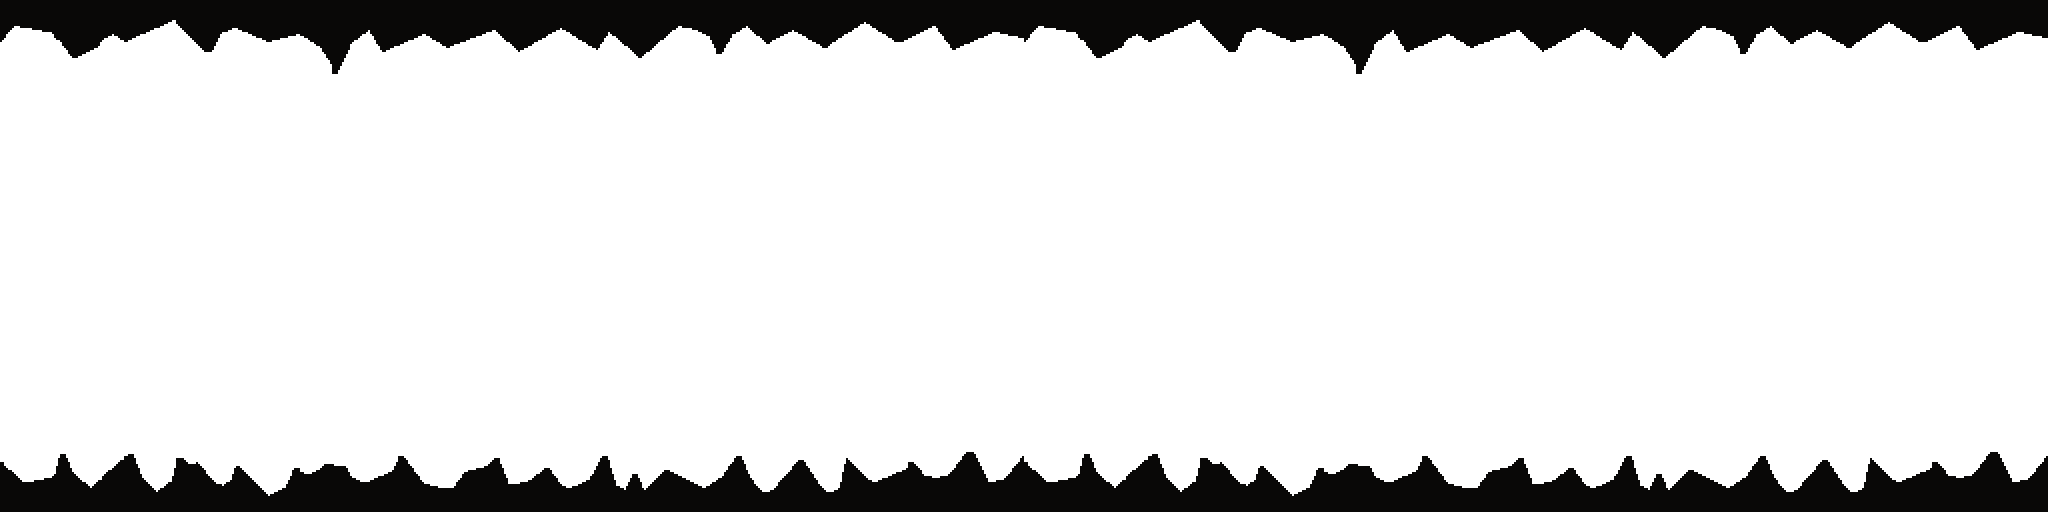
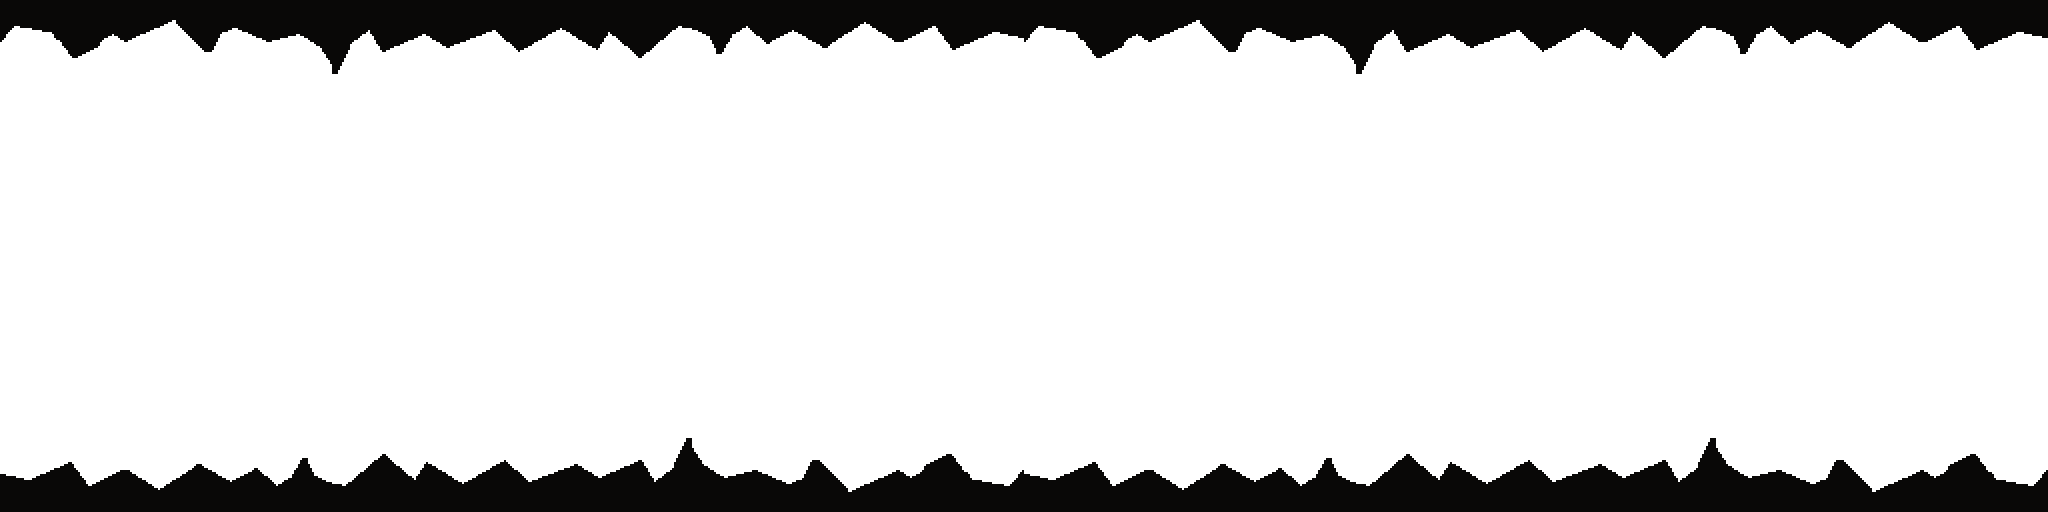
working death

Changed region(s): [[0.0, 0.875, 1.0, 0.9688]]

diff --git a/sprites.py b/sprites.py
@@ -31,6 +31,7 @@ class Ground(pygame.sprite.Sprite):
         self.image = pygame.transform.scale(ground_surf,pygame.math.Vector2(ground_surf.get_size()) * scale_factor)
         self.rect = self.image.get_rect(topleft = (0,0))
         self.pos = pygame.math.Vector2(self.rect.topleft)
+        self.mask = pygame.mask.from_surface(self.image)
 
     def update(self,dt):
         self.pos.x -= 360 * dt
@@ -51,6 +52,8 @@ class Kret(pygame.sprite.Sprite):
 
         self.gravity = 1500
         self.direction = 0
+
+        self.mask = pygame.mask.from_surface(self.image)
 
     def import_frames(self,scale_factor):
         self.frames = []
@@ -76,13 +79,14 @@ class Kret(pygame.sprite.Sprite):
     def rotate(self,dt):
         rotaded_kret = pygame.transform.rotozoom(self.image,-self.direction * 0.06,1)
         self.image = rotaded_kret
+        self.mask = pygame.mask.from_surface(self.image)
 
     def update(self,dt):
         self.apply_gravity(dt)
         self.animate(dt)
         self.rotate(dt)
 
-class Pipe(pygame.sprite.Sprite):
+class Pipe(pygame.sprite.Sprite): 
     def __init__(self,groups,scale_factor):
         super().__init__(groups)
 
@@ -101,6 +105,7 @@ class Pipe(pygame.sprite.Sprite):
             self.rect = self.image.get_rect(midtop = (x,y))
 
         self.pos = pygame.math.Vector2(self.rect.topleft)
+        self.mask = pygame.mask.from_surface(self.image)
 
     def update(self, dt):
         self.pos.x -= 400 * dt

diff --git a/code.py b/code.py
@@ -16,11 +16,16 @@ class Game:
         bg_height = pygame.image.load('graphics/background.png').get_height()
         self.scale_factor = WINDOW_HEIGHT / bg_height
         BG(self.all_sprites,self.scale_factor)
-        Ground(self.all_sprites,self.scale_factor)
+        Ground([self.all_sprites,self.collision_sprites],self.scale_factor)
         self.kret = Kret(self.all_sprites,self.scale_factor / 1.6)
 
         self.obstacle_timer = pygame.USEREVENT + 1
         pygame.time.set_timer(self.obstacle_timer, 1400)
+
+    def collisions(self):
+        if pygame.sprite.spritecollide(self.kret,self.collision_sprites,False,pygame.sprite.collide_mask):
+            pygame.quit()
+            sys.exit()
 
     def run(self):
         last_time = time.time()
@@ -36,9 +41,10 @@ class Game:
                     self.kret.jump()
 
                 if event.type == self.obstacle_timer:
-                    Pipe(self.all_sprites,self.scale_factor)
+                    Pipe([self.all_sprites,self.collision_sprites],self.scale_factor)
 
             self.all_sprites.update(dt)
+            self.collisions()
             self.all_sprites.draw(self.display_surface)
 
             pygame.display.update()
